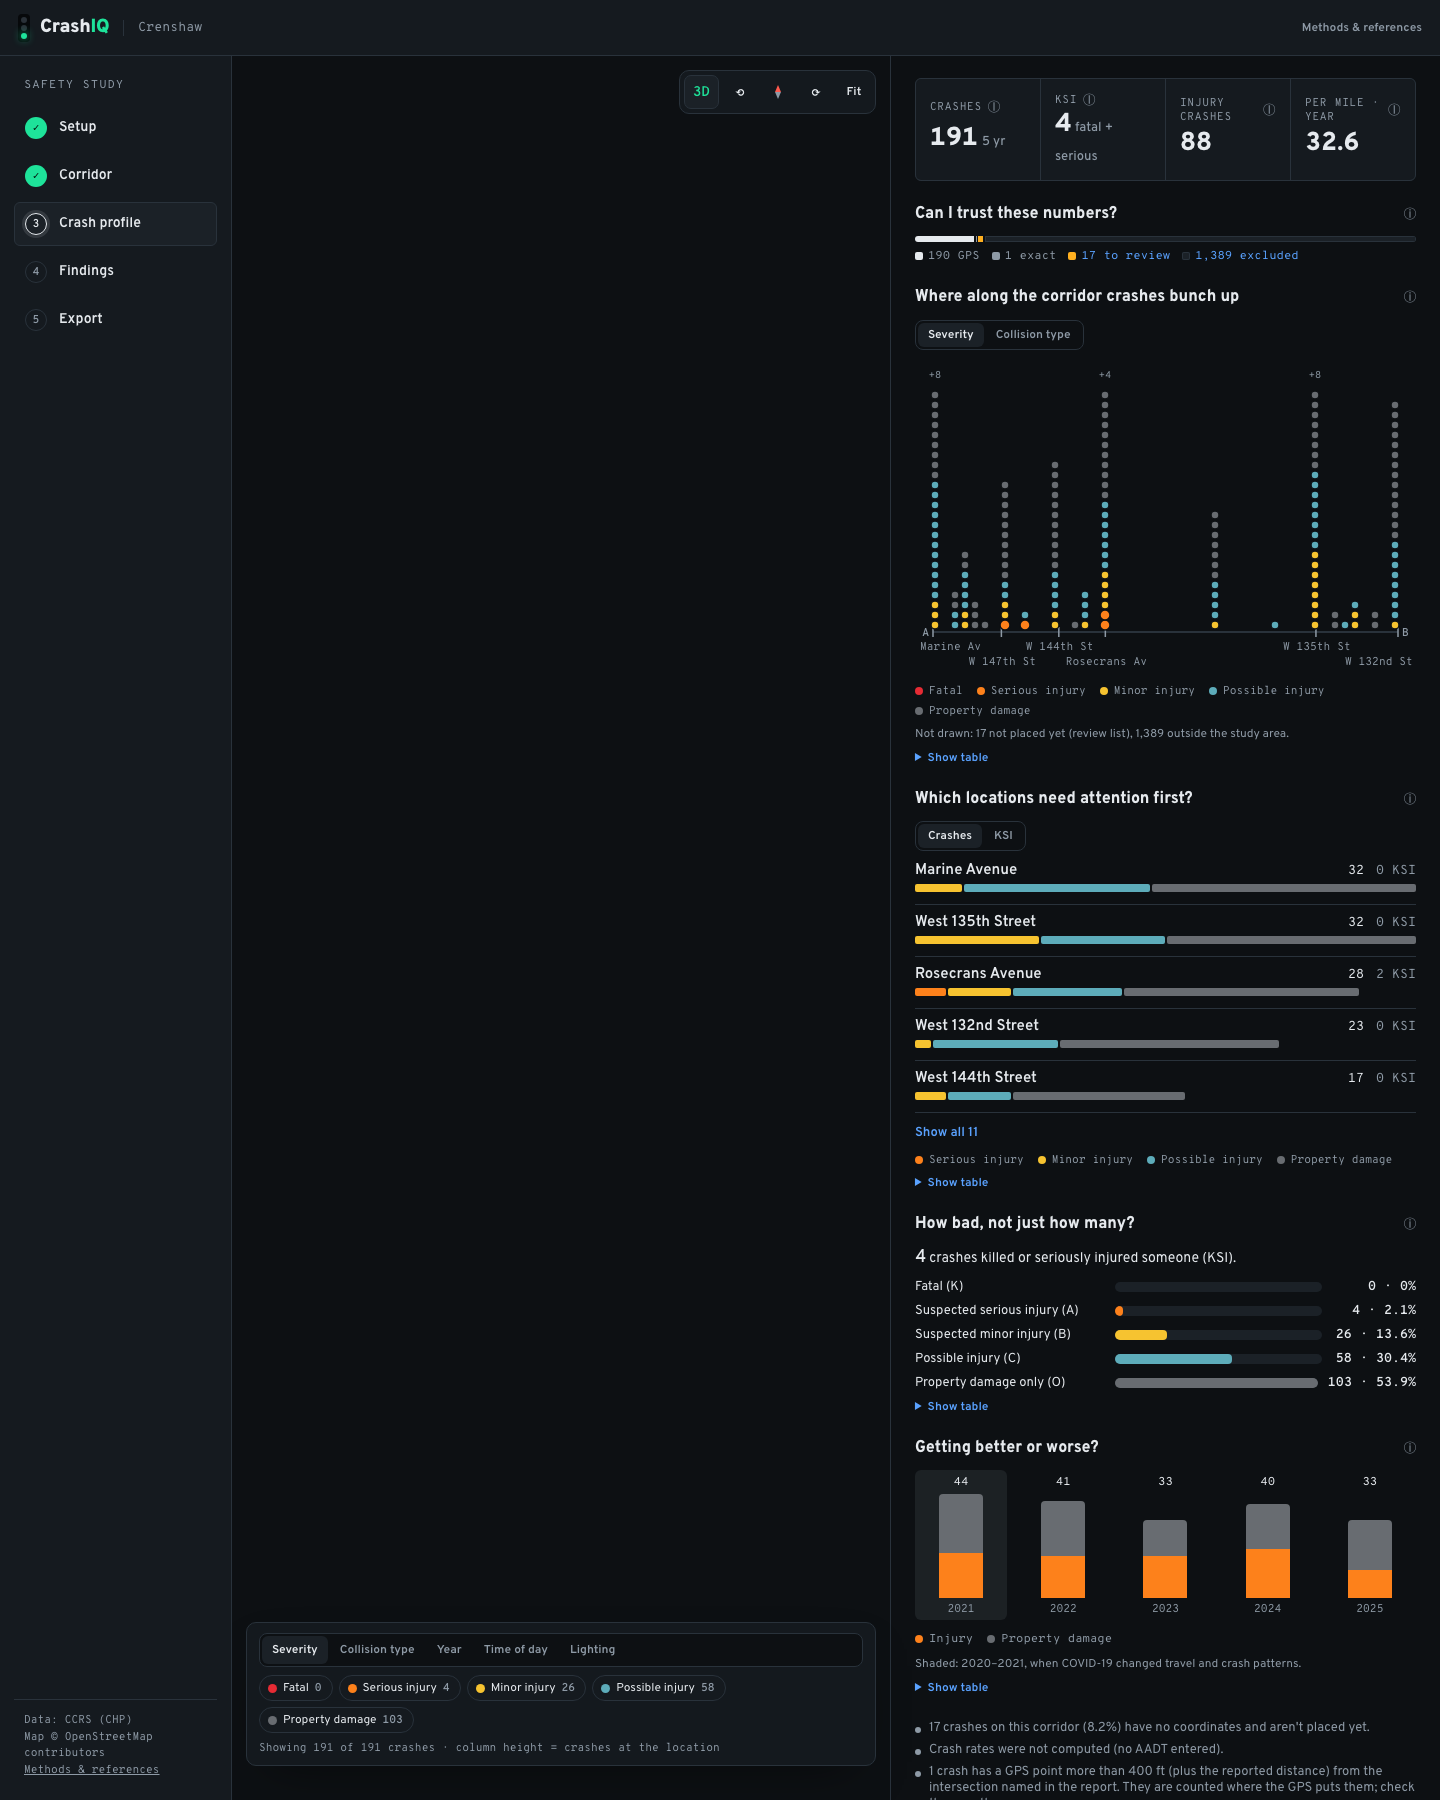
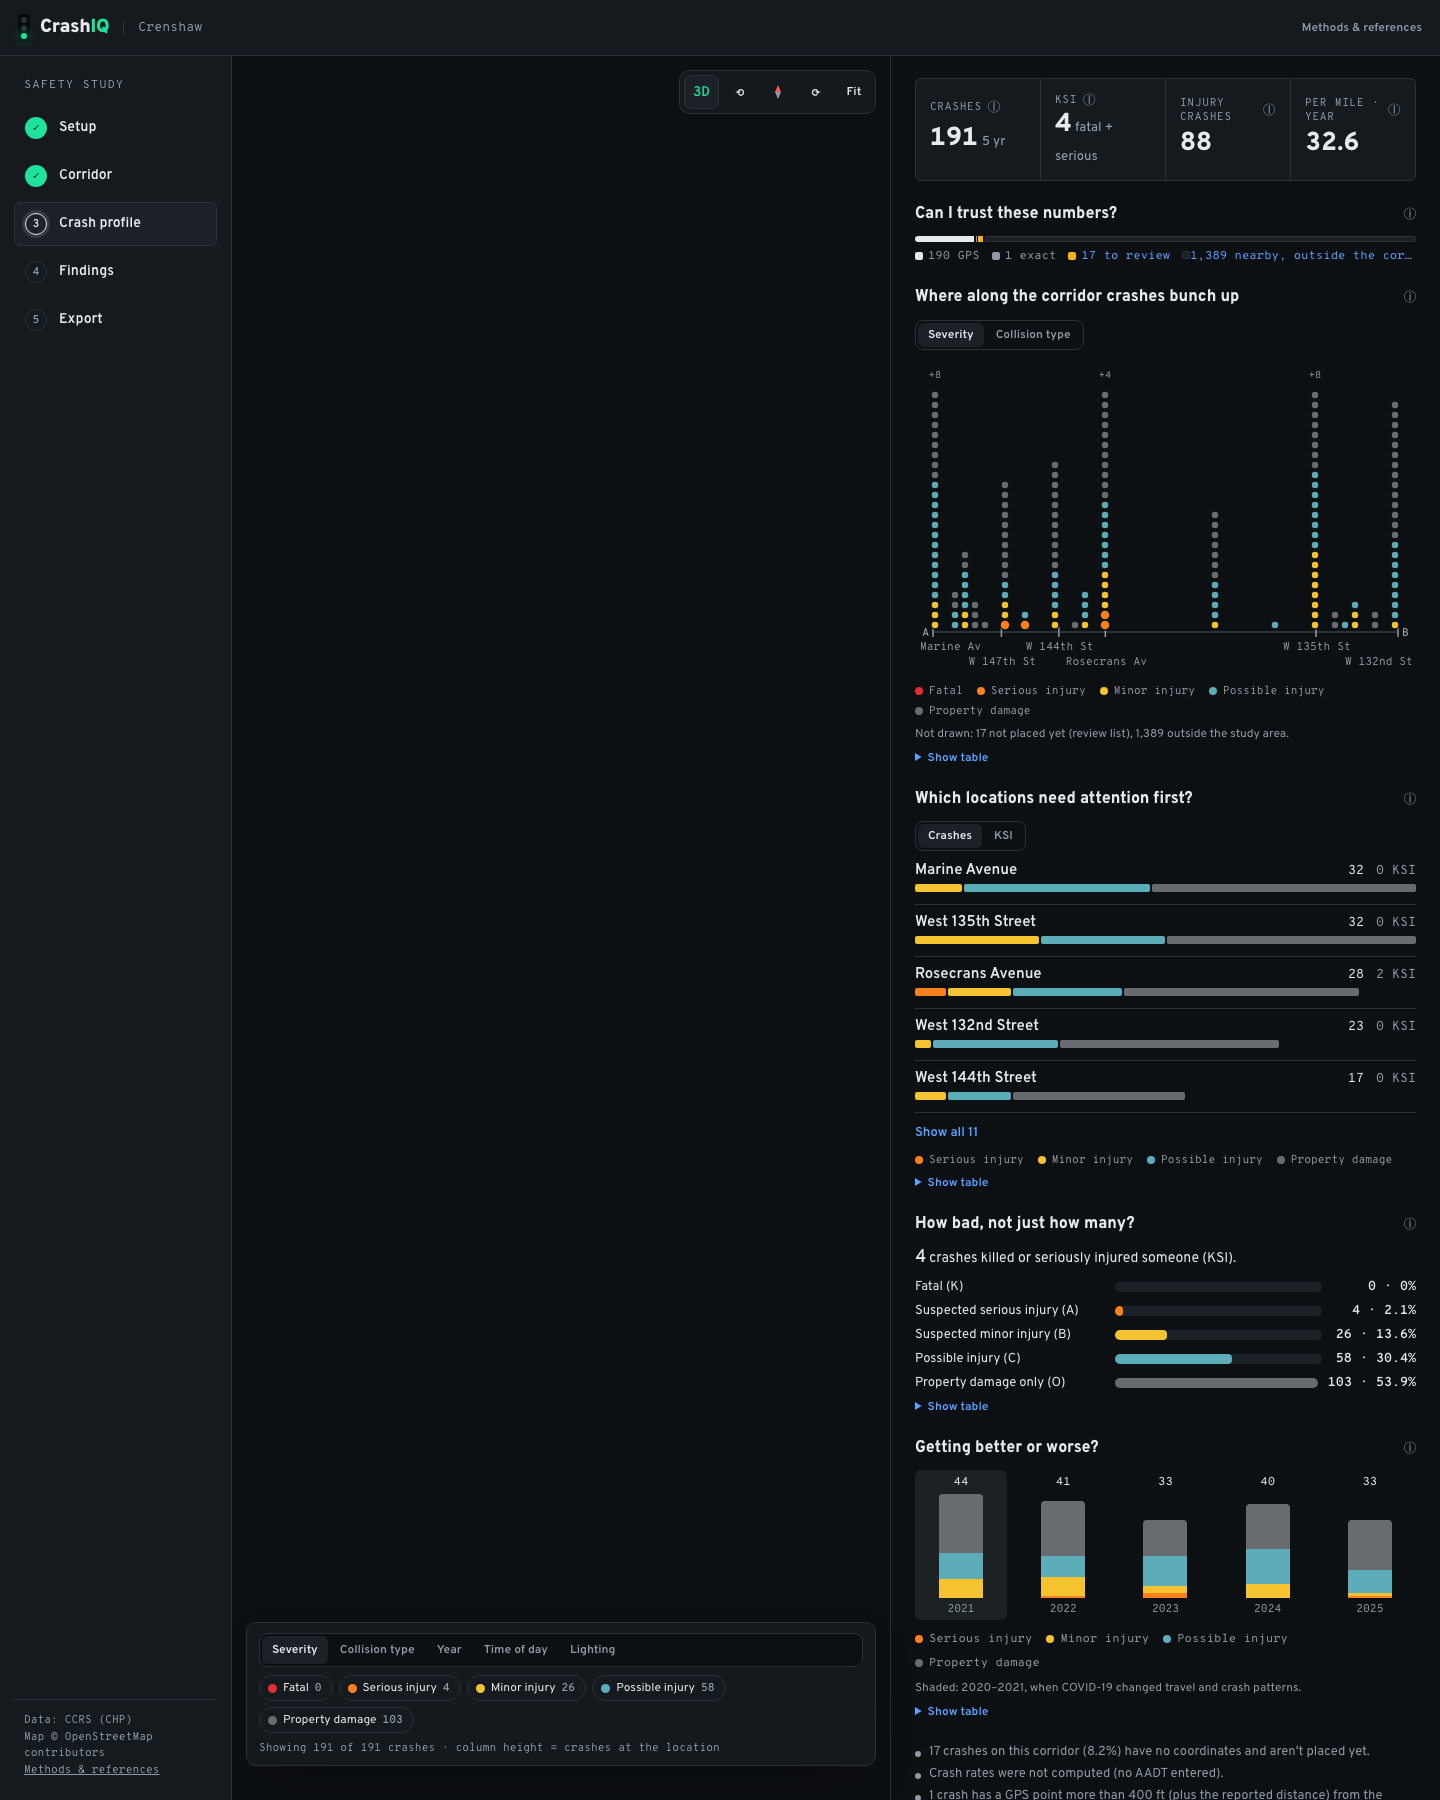
fix(#104, round 1): trend stacks the K/A/B/C/O ramp (T11 per-year severity); 'nearby, outside the corridor' instead of 'excluded'

Changed region(s): [[0.625, 0.84, 0.9688, 1.0], [0.9375, 0.8711, 0.9688, 0.9022]]

diff --git a/frontend/src/screens/Profile.jsx b/frontend/src/screens/Profile.jsx
@@ -226,7 +226,7 @@ const RULE_LABEL = { outside_buffer: 'outside the corridor buffer', outside_stud
 // short labels so the line stays one line at the 400 px column; the T1 row labels (ⓘ, export) carry the full wording
 const QUALITY = [['located_gps', 'GPS', 'q-gps', "Located by the officer's GPS"], ['located_exact', 'exact', 'q-exact', 'Placed by exact street-name match'],
   ['located_other', 'other', 'q-other', 'Placed by other matching tiers'], ['user_placed', 'by you', 'q-user', 'Placed by you on the review list'],
-  ['unplaced', 'to review', 'q-review', 'Not placed yet: open the review list'], ['excluded', 'excluded', 'q-ex', 'Outside the study area: show the rules']]
+  ['unplaced', 'to review', 'q-review', 'Not placed yet: open the review list'], ['excluded', 'nearby, outside the corridor', 'q-ex', 'Nearby crashes outside the corridor: show the rules']]
 
 function Quality({ p, excluded, onReview }) {
   const v = (k) => cell(p, `T1/${k}/value`) || 0
@@ -269,15 +269,14 @@ function Trend({ p }) {
             <div key={r.key} className={`yr${r.values.covid === 'Yes' ? ' covid' : ''}`} data-testid="trend-year">
               <span className="mono n">{fmt(r.values.crashes)}</span>
               <span className="col" aria-hidden="true">
-                <i className="inj" style={{ height: `${(100 * r.values.injury_crashes) / max}%` }} />
-                <i className="pdo" style={{ height: `${(100 * r.values.pdo_crashes) / max}%` }} />
+                {SEV_PARTS.map(([k]) => (r.values[`sev_${k}`] ? <i key={k} className={`sev-${k}`} style={{ height: `${(100 * r.values[`sev_${k}`]) / max}%` }} /> : null))}
               </span>
               <span className="mono y">{r.label}{r.values.preliminary ? <b className="prelim" title={`${fmt(r.values.preliminary)} preliminary reports`}>prelim.</b> : null}</span>
             </div>
           ))}
         </div>
       ) : <TrendLine rows={rows} max={max} />}
-      <div className="legend small"><span><i style={{ background: 'var(--sev-i)' }} />Injury</span><span><i style={{ background: 'var(--sev-p)' }} />Property damage</span></div>
+      <div className="legend small">{SEV_PARTS.filter(([k]) => rows.some((r) => r.values[`sev_${k}`])).map(([k, l]) => <span key={k}><i className={`sev-${k}`} />{l}</span>)}</div>
       {anyCovid ? <p className="muted small-note">Shaded: 2020–2021, when COVID-19 changed travel and crash patterns.</p> : null}
       {anyPrelim ? <p className="muted small-note">prelim.: CCRS still marks some of that year&apos;s reports preliminary; counts may change.</p> : null}
       <details className="showtable"><summary>Show table</summary>

diff --git a/frontend/src/styles/profile.css b/frontend/src/styles/profile.css
@@ -172,10 +172,10 @@
 /* H. data quality strip (#104): one thin bar + one line of counts */
 .quality .qbar { display: flex; gap: 2px; height: 6px; border-radius: 3px; overflow: hidden; }
 .quality .qbar i, .quality .qline i { display: block; height: 100%; }
-.quality .qline { display: flex; flex-wrap: nowrap; white-space: nowrap; gap: 4px 12px; margin: 6px 0 0; font: 12px var(--font-mono); color: var(--muted); }
+.quality .qline { display: flex; flex-wrap: nowrap; white-space: nowrap; gap: 4px 9px; margin: 6px 0 0; font: 11px var(--font-mono); color: var(--muted); }
 .quality .qline > * { display: inline-flex; align-items: center; gap: 5px; }
 .quality .qline i { width: 8px; height: 8px; border-radius: 2px; display: inline-block; }
-.quality .linkbtn { padding: 0; font: 12px var(--font-mono); }
+.quality .linkbtn { padding: 0; font: 11px var(--font-mono); }
 .q-gps { background: var(--fg); } .q-exact { background: var(--muted); } .q-other { background: color-mix(in srgb, var(--muted) 55%, transparent); }
 .q-user { background: var(--info); } .q-review { background: var(--amber); } .q-ex { background: var(--surface-2); box-shadow: inset 0 0 0 1px var(--line); }
 .qrules { margin-top: 6px; }
@@ -193,3 +193,7 @@
 .trendline .l-inj { fill: none; stroke: var(--sev-i); stroke-width: 2; } .trendline .l-all-dot { fill: var(--fg); }
 .trendline .covidband { fill: color-mix(in srgb, var(--muted) 14%, transparent); }
 .trendline .yl, .trendline .dl { font: 10px var(--font-mono); fill: var(--muted); }
+/* #104 round 1: the strip stays one line; the long last label truncates (full text on hover) */
+.quality .qline { overflow: hidden; }
+.quality .qline > :last-child { min-width: 0; overflow: hidden; text-overflow: ellipsis; display: inline-block; }
+.trend .col i[class^="sev-"]:last-child { border-radius: 4px 4px 0 0; }

diff --git a/frontend/src/screens/Profile.test.jsx b/frontend/src/screens/Profile.test.jsx
@@ -246,6 +246,8 @@ describe('Crash profile screen', () => {
       expect(years[i].querySelector('.n').textContent).toBe(nf.format(r.values.crashes))
       expect(years[i].classList.contains('covid')).toBe(r.values.covid === 'Yes')         // docs/03: 2020 and 2021
       expect(Boolean(years[i].querySelector('.prelim'))).toBe(r.values.preliminary > 0)
+      const segs = [...years[i].querySelectorAll('.col i')].map((e) => e.className)          // the K/A/B/C/U/O ramp
+      expect(segs).toEqual(['k', 'a', 'b', 'c', 'u', 'o'].filter((k) => r.values[`sev_${k}`]).map((k) => `sev-${k}`))
     })
     expect(within(tr).getByText(/COVID-19 changed travel/)).toBeInTheDocument()
   })
@@ -259,7 +261,7 @@ describe('Crash profile screen', () => {
     const v = (k) => cell(profile, `T1/${k}/value`)
     expect(v('located_gps') + v('located_exact') + v('located_other') + (v('user_placed') || 0)).toBe(v('crashes'))
     expect(within(q).getByTestId('q-located_gps').textContent).toContain(nf.format(v('located_gps')))
-    const ex = within(q).getByRole('button', { name: new RegExp(`${nf.format(v('excluded'))} excluded`) })
+    const ex = within(q).getByRole('button', { name: new RegExp(`${nf.format(v('excluded'))} nearby, outside the corridor`) })
     fireEvent.click(ex)
     const rules = within(q).getByLabelText('Excluded, by rule')
     const sum = [...rules.querySelectorAll('li .mono')].reduce((t, e) => t + Number(e.textContent.replace(/,/g, '')), 0)

diff --git a/backend/crashiq/profile.py b/backend/crashiq/profile.py
@@ -111,10 +111,14 @@ def tables_for(crashes: list[dict], years: int, suffix: str = "", window: list[i
                          injury_crashes=sum(c["severity"] in INJURY for c in cy),
                          pdo_crashes=sum(c["severity"] == "O" for c in cy),
                          preliminary=sum(bool(c.get("preliminary")) for c in cy),
-                         covid="Yes" if y in study_mod.COVID_YEARS else "No"))
+                         covid="Yes" if y in study_mod.COVID_YEARS else "No",
+                         **{f"sev_{lvl.lower()}": sum(c["severity"] == lvl for c in cy) for lvl in "KABCUO"}))
     out.append(_table(f"T11{s}", "Crashes by year", [("crashes", "Crashes"), ("ksi_crashes", "KSI crashes"),
                                                      ("injury_crashes", "Injury crashes"), ("pdo_crashes", "Property damage only"),
-                                                     ("preliminary", "Preliminary reports"), ("covid", "COVID year")],
+                                                     ("preliminary", "Preliminary reports"), ("covid", "COVID year"),
+                                                     ("sev_k", "Fatal (K)"), ("sev_a", "Serious (A)"), ("sev_b", "Minor (B)"),
+                                                     ("sev_c", "Possible (C)"), ("sev_u", "Injury, level not stated"),
+                                                     ("sev_o", "Property damage (O)")],
                       rows, crashes))
     return out
 

diff --git a/tests/test_profile.py b/tests/test_profile.py
@@ -189,6 +189,7 @@ def test_t11_has_every_window_year_with_the_split_preliminary_and_covid():
         assert v["injury_crashes"] + v["pdo_crashes"] == v["crashes"]
         assert v["covid"] == ("Yes" if int(r["key"]) in (2020, 2021) else "No")
         assert 0 <= v["preliminary"] <= v["crashes"]
+        assert sum(v[f"sev_{k}"] for k in "kabcuo") == v["crashes"]          # #104 round 1: the trend stacks the ramp
     assert sum(r["values"]["crashes"] for r in t11["rows"]) == v_(p, "T1/crashes/value")
 
 
